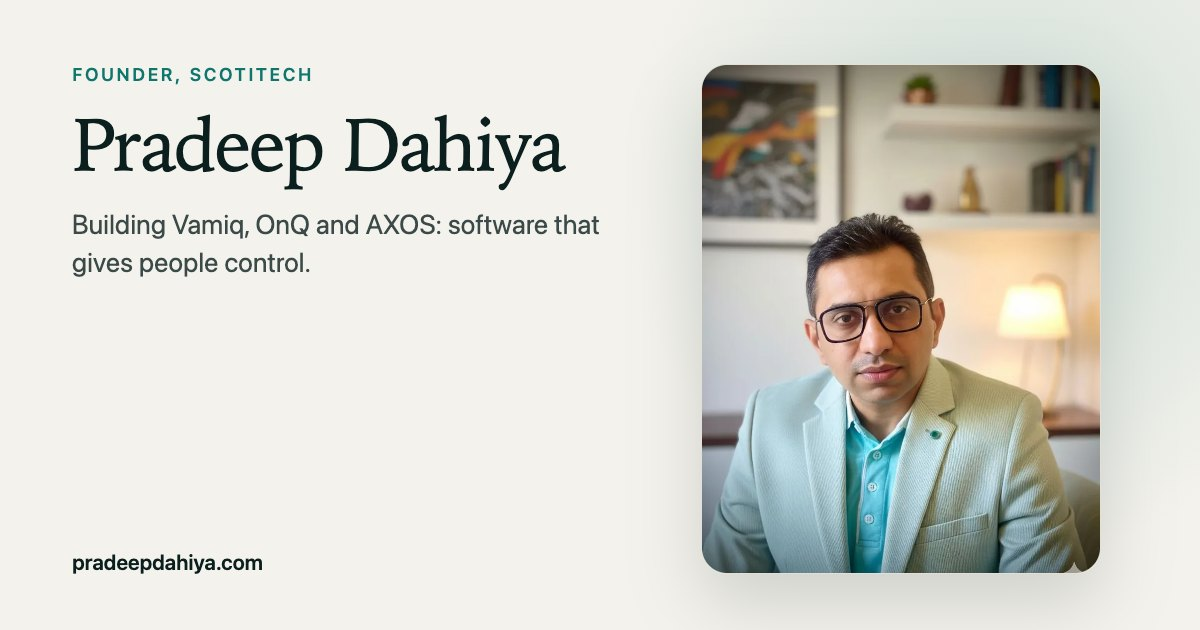
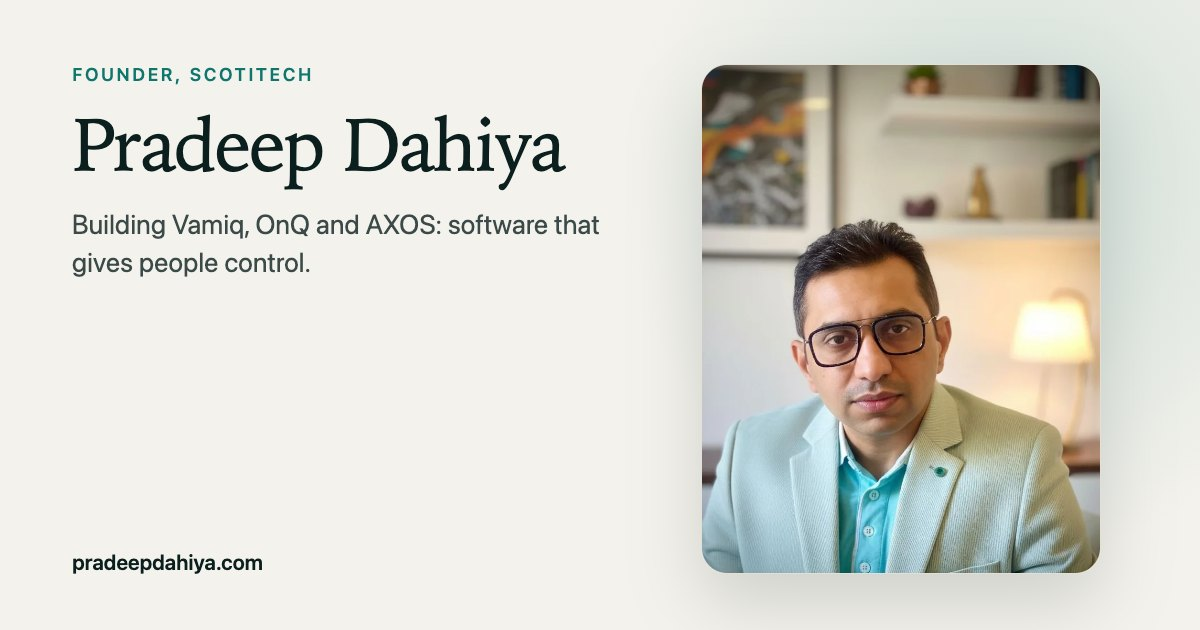
Zoom the portraits and show real OnQ app screens
- Crop both portraits about 12% tighter, which also removes the corner mark
- OnQ page: hero shows the nearby-salons and pin-your-shop screens in phone
  frames; the counter poster moves to the For shops column
- Work page: OnQ card shows the nearby-salons screen
- Share card re-rendered with the new portrait

Changed region(s): [[0.5858, 0.0905, 0.925, 0.9349]]

diff --git a/app/(site)/products/onq/page.jsx b/app/(site)/products/onq/page.jsx
@@ -1,8 +1,8 @@
 import Image from "next/image";
 import Link from "next/link";
-import { Container, JsonLd, SectionHeading, StoreButtons, TextLink } from "../../../../components/ui";
-import { onqLinks, products } from "../../../../lib/site";
-import { breadcrumbJsonLd, createMetadata, productJsonLd } from "../../../../lib/seo";
+import { Container, JsonLd, PhoneFrame, SectionHeading, StoreButtons, TextLink } from "../../../../components/ui";
+import { onqLinks, onqScreens, products } from "../../../../lib/site";
+import { absoluteUrl, breadcrumbJsonLd, createMetadata, productJsonLd } from "../../../../lib/seo";
 
 const onq = products.find((item) => item.id === "onq");
 
@@ -42,6 +42,7 @@ export default function OnQPage() {
             applicationCategory: "LifestyleApplication",
             operatingSystem: "iOS, Android",
             installUrl: [onqLinks.appStore, onqLinks.googlePlay],
+            screenshot: onqScreens.map((screen) => absoluteUrl(screen.src)),
             offers: { "@type": "Offer", price: "0", priceCurrency: "GBP" }
           }),
           breadcrumbJsonLd([
@@ -81,17 +82,11 @@ export default function OnQPage() {
           </div>
 
           <figure className="mx-auto w-full max-w-[420px]">
-            <div className="overflow-hidden rounded-[18px] border border-line bg-surface shadow-card">
-              <Image
-                src="/images/onq/onq-poster-1200.webp"
-                width={1200}
-                height={1697}
-                alt="The OnQ counter poster: see the wait, join from anywhere, with App Store and Google Play download codes"
-                className="h-auto w-full"
-                priority
-              />
+            <div className="relative aspect-[420/540]">
+              <PhoneFrame {...onqScreens[1]} className="absolute bottom-0 left-0 w-[46%]" />
+              <PhoneFrame {...onqScreens[0]} className="absolute right-0 top-0 w-[54%]" priority />
             </div>
-            <figcaption className="mt-3 text-[13px] text-muted">The poster participating shops put on the counter.</figcaption>
+            <figcaption className="mt-4 text-[13px] text-muted">Real screens from the OnQ iPhone app.</figcaption>
           </figure>
         </Container>
       </section>
@@ -136,6 +131,20 @@ export default function OnQPage() {
               <div className="mt-8">
                 <TextLink href={onqLinks.site}>OnQ for shop owners</TextLink>
               </div>
+              <figure className="mt-10 flex items-end gap-5">
+                <div className="w-[150px] shrink-0 overflow-hidden rounded-[12px] border border-line bg-surface shadow-soft">
+                  <Image
+                    src="/images/onq/onq-poster-1200.webp"
+                    width={1200}
+                    height={1697}
+                    alt="The OnQ counter poster: see the wait, join from anywhere, with App Store and Google Play download codes"
+                    className="h-auto w-full"
+                  />
+                </div>
+                <figcaption className="text-[14px] leading-6 text-muted">
+                  The counter poster shops put up, with codes for the App Store and Google Play.
+                </figcaption>
+              </figure>
             </div>
           </div>
         </Container>

diff --git a/app/(site)/work/page.jsx b/app/(site)/work/page.jsx
@@ -1,7 +1,7 @@
 import Image from "next/image";
 import Link from "next/link";
 import { Container, PageIntro, ProductFrame, SectionHeading, TextLink } from "../../../components/ui";
-import { openSource, products, vamiqMedia } from "../../../lib/site";
+import { onqScreens, openSource, products, vamiqMedia } from "../../../lib/site";
 import { createMetadata } from "../../../lib/seo";
 
 export const metadata = createMetadata({
@@ -19,12 +19,7 @@ const visuals = {
     height: vamiqMedia.poster.height,
     alt: vamiqMedia.poster.alt
   },
-  onq: {
-    src: "/images/onq/onq-poster-1200.webp",
-    width: 1200,
-    height: 1697,
-    alt: "The OnQ counter poster with App Store and Google Play download codes"
-  },
+  onq: onqScreens[0],
   axos: {
     label: "AXOS Workspace",
     src: "/images/axos/axos-workspace-1200.webp",
@@ -97,13 +92,13 @@ export default function WorkPage() {
                   } ${index % 2 === 1 ? "md:order-1" : ""}`}
                 >
                   {portrait ? (
-                    <div className="w-full max-w-[300px] overflow-hidden rounded-t-[16px] border border-b-0 border-line shadow-card">
+                    <div className="w-full max-w-[260px] overflow-hidden rounded-t-[30px] border-[6px] border-b-0 border-ink bg-ink shadow-card">
                       <Image
                         src={visual.src}
                         width={visual.width}
                         height={visual.height}
                         alt={visual.alt}
-                        className="h-[340px] w-full object-cover object-top"
+                        className="h-[340px] w-full rounded-t-[24px] object-cover object-top"
                       />
                     </div>
                   ) : (

diff --git a/lib/site.js b/lib/site.js
@@ -18,15 +18,15 @@ export const person = {
 
 export const portraits = {
   headshot: {
-    src: "/images/about/pradeep-dahiya-800.webp",
-    width: 800,
-    height: 1096,
+    src: "/images/about/pradeep-dahiya-portrait-760.webp",
+    width: 759,
+    height: 1040,
     alt: "Pradeep Dahiya"
   },
   desk: {
-    src: "/images/about/pradeep-dahiya-desk-800.webp",
-    width: 800,
-    height: 1067,
+    src: "/images/about/pradeep-dahiya-desk-790.webp",
+    width: 789,
+    height: 1052,
     alt: "Pradeep Dahiya working on a MacBook"
   }
 };
@@ -56,6 +56,24 @@ export const vamiqMedia = {
     duration: "PT1M15S"
   }
 };
+
+// Real screens from the OnQ iPhone app, as published on its App Store listing.
+export const onqScreens = [
+  {
+    src: "/images/onq/onq-screen-nearby-640.webp",
+    width: 640,
+    height: 1386,
+    alt: "OnQ on iPhone: nearby salons on a map, each with its live wait",
+    caption: "Nearby salons, each with its live wait"
+  },
+  {
+    src: "/images/onq/onq-screen-pin-640.webp",
+    width: 640,
+    height: 1386,
+    alt: "OnQ on iPhone: a shop owner pinning the shop's location so customers are routed to the front door",
+    caption: "Shop owners pin their front door"
+  }
+];
 
 export const onqLinks = {
   site: "https://onq.scotitech.com",

diff --git a/components/ui.jsx b/components/ui.jsx
@@ -1,3 +1,4 @@
+import Image from "next/image";
 import Link from "next/link";
 import { onqLinks } from "../lib/site";
 
@@ -110,6 +111,14 @@ export function ProductFrame({ label, children, className = "" }) {
         <span>{label}</span>
       </div>
       {children}
+    </div>
+  );
+}
+
+export function PhoneFrame({ src, width, height, alt, className = "", priority = false }) {
+  return (
+    <div className={`overflow-hidden rounded-[30px] border-[6px] border-ink bg-ink shadow-lift ${className}`}>
+      <Image src={src} width={width} height={height} alt={alt} priority={priority} className="h-auto w-full rounded-[24px]" />
     </div>
   );
 }

diff --git a/scripts/og-cards.html b/scripts/og-cards.html
@@ -48,7 +48,7 @@
       eyebrow: "Founder, ScotiTech",
       title: "Pradeep Dahiya",
       sub: "Building Vamiq, OnQ and AXOS: software that gives people control.",
-      visual: '<div class="portrait"><img src="../public/images/about/pradeep-dahiya-800.webp" alt=""></div>'
+      visual: '<div class="portrait"><img src="../public/images/about/pradeep-dahiya-portrait-760.webp" alt=""></div>'
     },
     vamiq: {
       eyebrow: "Vamiq · by Pradeep Dahiya",

diff --git a/lib/seo.js b/lib/seo.js
@@ -66,7 +66,7 @@ export function personJsonLd() {
     "@id": `${siteUrl}/#person`,
     name: person.name,
     url: siteUrl,
-    image: absoluteUrl("/images/about/pradeep-dahiya-800.webp"),
+    image: absoluteUrl("/images/about/pradeep-dahiya-portrait-760.webp"),
     jobTitle: "Founder",
     description: SITE_DESCRIPTION,
     email: `mailto:${person.email}`,
